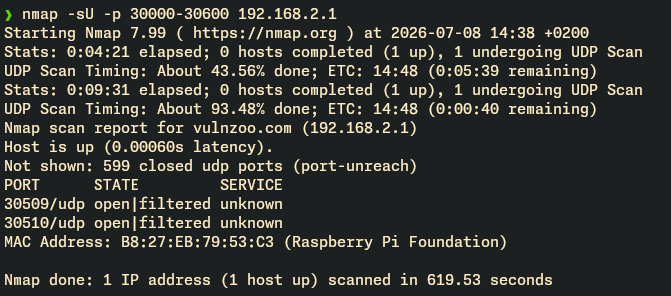
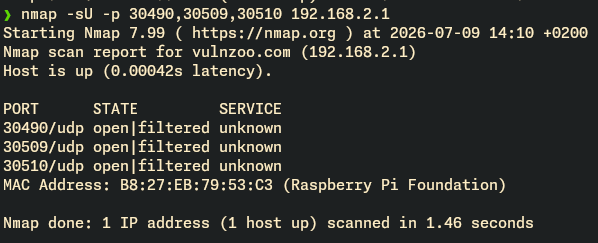
Auto 01 Chain doc progressed

Changed region(s): [[0.0, 0.0, 0.9933, 0.8642], [0.0, 0.893, 0.903, 0.9794]]

diff --git a/src/docs/Canary/Vulns/Automotive/AUTO-Jeep-Kill-Chain.md b/src/docs/Canary/Vulns/Automotive/AUTO-Jeep-Kill-Chain.md
@@ -165,7 +165,7 @@ nmap -sU -p 30000-30600 192.168.2.1
 # 30510/udp open|filtered
 ```
 
-![[AUTO-01-nmap.png]]
+![[Canary/Vulns/Automotive/images/AUTO-01-nmap.png]]
 
 UDP scans are unreliable, a silent service reads as `open|filtered`, so treat these as candidates and confirm each by talking to it. A SOME/IP service answers a well-formed request and ignores noise, which is itself a fingerprint.
 
@@ -188,6 +188,10 @@ Each lock or unlock is one authenticated `SetLock` on the wire. The capture hand
 ```
 -> OfferService: service 0x1401, instance 0x0001, endpoint 192.168.2.1:30509/UDP
 ```
+
+You do not need the firmware to craft that `FindService`. SOME/IP and its Service Discovery are a public AUTOSAR standard, so the header layout and the SD message (service `0xFFFF`, method `0x8100`, with its entry and option format) come straight from the AUTOSAR SOME/IP and SOME/IP-SD specifications. Off-the-shelf tools already speak them: Scapy ships `scapy.contrib.automotive.someip`, and `vsomeip` (the open-source COVESA stack) does the SD handshake natively. The hand-rolled snippets in this walkthrough are only the minimal form of what those tools do, and even without the spec a single captured SOME/IP frame is enough because Wireshark labels every field.
+
+What no specification can give you is this ECU's own values, the service id `0x1401`, its methods and the token. Those are discovered, not guessed: from the `OfferService` reply, from sniffed traffic, or from the error-code enumeration below. In a production vehicle it is easier still, SD is multicast and continuous, so an attacker recovers the whole service catalog just by listening. The lab ships only the `FindService` responder, so here you send the query, which models that active-discovery step.
 
 **Active enumeration (no traffic and no SD to observe).** A SOME/IP header is a fixed 16-byte layout: a 32-bit Message ID (`service << 16 | method`), a length, a Request ID, then protocol, interface, message-type and return-code bytes. Wireshark decodes it directly. To confirm `30509` and see what lives there, send a minimal request and read the header back:
 
@@ -226,6 +230,45 @@ print('setlock ->', hex(s.recvfrom(1024)[0][14]))   # -> 0x81 (ERROR)
 ```
 
 Still rejected, for every argument. A setter that refuses everything is authenticated, there is a credential in the request you do not have, though if you sniffed traffic above you already have it. The standard return codes make the sweep precise: `0x0003` answers `E_MALFORMED`, so it exists and wants a longer payload, you just do not yet know what it does. Service ids enumerate the same way, a wrong service answers `E_UNKNOWN_SERVICE`. Note the second port `30510` from Phase 1. What `0x0003` relays, the firmware format, and the CAN map are the semantic layer, which you get by correlating captures with CAN traffic or from static analysis (Phase 3).
+
+**Doing Phase 2 with real tools (Scapy + Wireshark).** The snippets above show the raw bytes, but in practice you send with Scapy and read with Wireshark, and neither needs the firmware. Scapy is preinstalled on Kali (otherwise `pip install scapy`), and its `scapy.contrib.automotive.someip` layer speaks SOME/IP and SOME/IP-SD directly. The following is verified against this lab:
+
+```python
+from scapy.contrib.automotive.someip import SOMEIP, SD, SDEntry_Service
+import socket
+s = socket.socket(socket.AF_INET, socket.SOCK_DGRAM); s.settimeout(2)
+
+# 1) Service Discovery: a FindService for service 0x1401 -> the gateway answers OfferService
+entry = SDEntry_Service(type=0, srv_id=0x1401, inst_id=0xFFFF, major_ver=0xFF, ttl=3, minor_ver=0xFFFFFFFF)
+find = SOMEIP(srv_id=0xFFFF, sub_id=0x8100, msg_type=2) / SD(flags=0xC0, entry_array=[entry])
+s.sendto(bytes(find), ('192.168.2.1', 30490))
+SOMEIP(s.recvfrom(1024)[0]).show()      # OfferService: service 0x1401 @ 192.168.2.1:30509/UDP
+
+# 2) Method enumeration on the service port, read the standard return codes
+for m in (0x0001, 0x0002, 0x0003, 0x00ff):
+    s.sendto(bytes(SOMEIP(srv_id=0x1401, sub_id=m, msg_type=0)), ('192.168.2.1', 30509))
+    r = SOMEIP(s.recvfrom(1024)[0])
+    print(f'method {m:#06x} -> msg_type={r.msg_type} retcode={r.retcode}')
+# 0x0001 -> 129/1  ERROR / E_NOT_OK (authenticated)     0x0002 -> 128/0  RESPONSE (readable)
+# 0x0003 -> 129/9  ERROR / E_MALFORMED (exists)          0x00ff -> 129/3  ERROR / E_UNKNOWN_METHOD
+```
+
+`SOMEIP(...).show()` prints the fields by name (`msg_type` as `NOTIFICATION` / `RESPONSE` / `ERROR`, `retcode` as `E_OK` / `E_NOT_OK` / `E_MALFORMED_MESSAGE` / `E_UNKNOWN_METHOD`), and the OfferService reply already carries the service id and the IPv4 endpoint option, so Scapy alone hands you service `0x1401` at `192.168.2.1:30509`.
+
+To read a frame in Wireshark:
+
+1. Capture on the interface facing the vehicle with `udp.port in {30490,30509,30510}`, or open the saved `.pcap`.
+2. Wireshark has a SOME/IP dissector but it is off for these non-standard ports. Right-click one of the packets, choose `Decode As...`, and set the UDP port (`30509`, `30510`, `30490`) to `SOMEIP`. The SD messages on `30490` get the SOME/IP-SD sub-dissection on their own.
+3. The detail pane now shows the fields by name under `SOME/IP Protocol`: `Service ID`, `Method ID`, `Message Type`, `Return Code`, and the payload, with no hex arithmetic.
+4. On an `OfferService`, expand `SOME/IP Service Discovery` and read the entry (service `0x1401`) and the IPv4 endpoint option (`192.168.2.1`, port `30509`, UDP).
+5. On the authenticated `SetLock` you sniffed, select the SOME/IP payload and read the ASCII in the bytes pane, `AGL-HEADUNIT-7c2f`, the token in the clear.
+6. Useful display filters: `someip.serviceid == 0x1401`, `someip.messagetype == 0x81` (only the error replies of the sweep), `someip.methodid == 3` (RelayFrame), `someipsd.entry.serviceid == 0x1401` (the SD offer).
+
+![[AUTO-01-wireshark-find-offer.png]]
+
+![[AUTO-01-discovery-protocol.png]]
+
+![[AUTO-01-service-id.png]]
 
 ### Phase 3 - Static analysis: recover the design from the firmware
 
